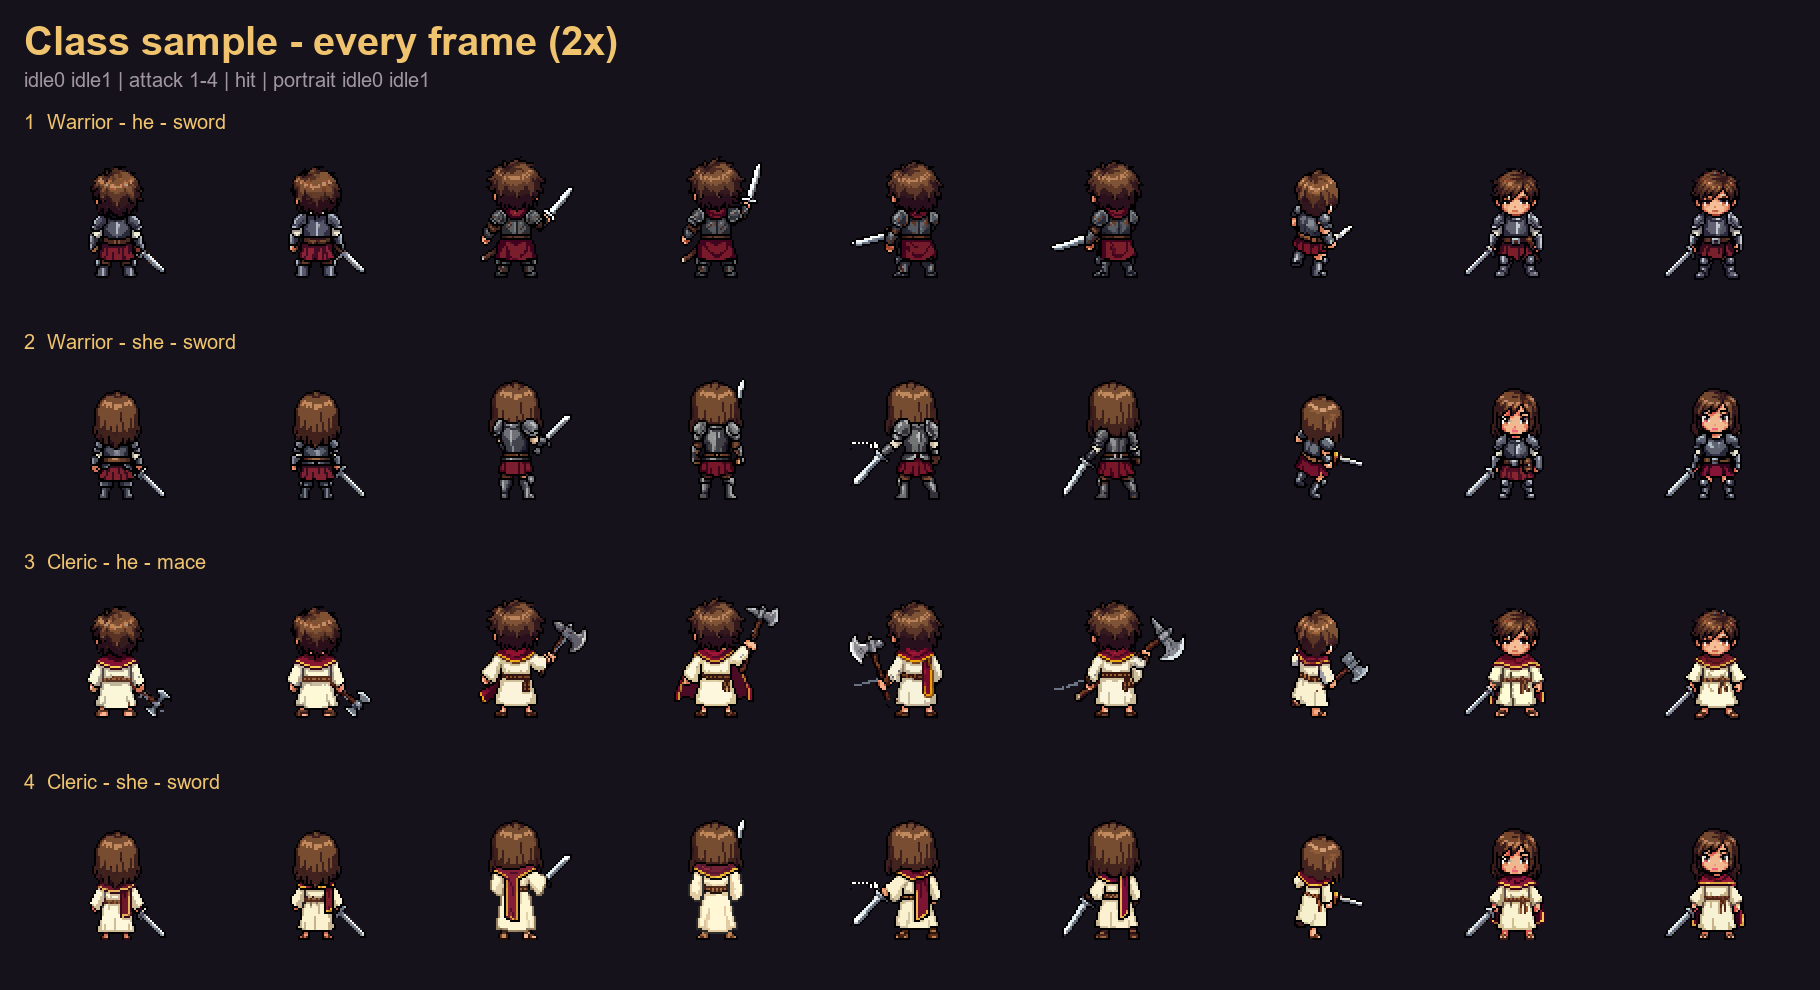
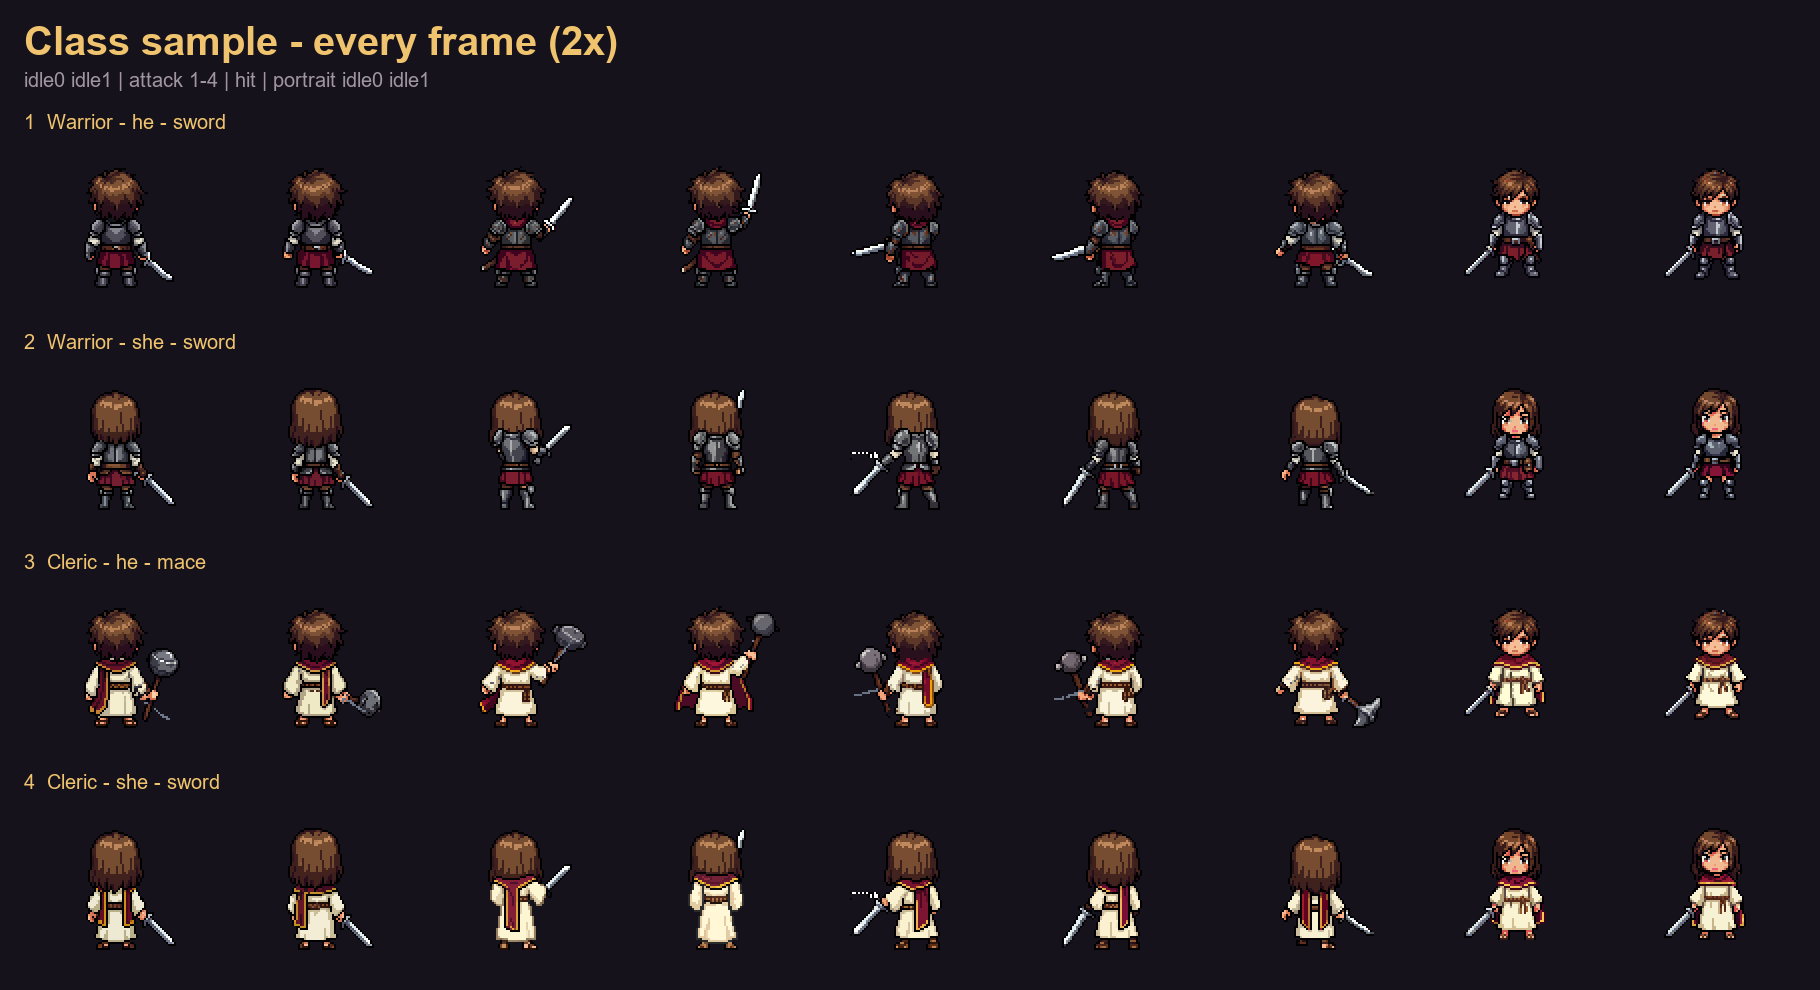
PixelLab hero class sample: same size in every frame (idle + hit remade from the attack's rest frame), real mace on all battle frames

diff --git a/claude/art_test/pixellab/classes/compose.py b/claude/art_test/pixellab/classes/compose.py
@@ -14,14 +14,15 @@ import hero
 def L(p): return Image.open(p).convert("RGBA")
 A = os.path.join(PL, "anims"); FA = os.path.join(PL, "female", "anims")
 BASE = {  # (body, frame) -> base PixelLab frame with the sword
-    ("m", "idle0"): os.path.join(A, "idle_north", "00.png"), ("m", "idle1"): os.path.join(A, "idle_north", "02.png"),
+    # idle + hit come from v3 clips started on the attack's rest frame, so the hero keeps the attack's size
+    ("m", "idle0"): os.path.join(A, "idle_as_north", "00.png"), ("m", "idle1"): os.path.join(A, "idle_as_north", "02.png"),
     ("m", "atk0"): os.path.join(A, "attack2_north", "02.png"), ("m", "atk1"): os.path.join(A, "attack2_north", "04.png"),
     ("m", "atk2"): os.path.join(A, "attack2_north", "06.png"), ("m", "atk3"): os.path.join(A, "attack2_north", "07.png"),
-    ("m", "hit"): os.path.join(HERE, "hit_m", "03.png"),
-    ("f", "idle0"): os.path.join(FA, "idle_north", "00.png"), ("f", "idle1"): os.path.join(FA, "idle_north", "02.png"),
+    ("m", "hit"): os.path.join(A, "hit_as_north", "01.png"),
+    ("f", "idle0"): os.path.join(FA, "idle_as_north", "00.png"), ("f", "idle1"): os.path.join(FA, "idle_as_north", "02.png"),
     ("f", "atk0"): os.path.join(FA, "attack_north", "02.png"), ("f", "atk1"): os.path.join(FA, "attack_north", "04.png"),
     ("f", "atk2"): os.path.join(FA, "attack_north", "06.png"), ("f", "atk3"): os.path.join(FA, "attack_north", "07.png"),
-    ("f", "hit"): os.path.join(HERE, "hit_f", "03.png"),
+    ("f", "hit"): os.path.join(FA, "hit_as_north", "01.png"),
 }
 NORTH = ["idle0", "idle1", "atk0", "atk1", "atk2", "atk3", "hit"]
 CW = 96
@@ -69,7 +70,7 @@ def centre(im):
 
 
 def at_feet(frames):
-    ref = max(f.getbbox()[3] for f in frames[:2])
+    ref = max(f.getbbox()[3] for f in frames[:2])  # feet of the idle frames
     out = []
     for f in frames:
         c = Image.new("RGBA", (CW, CW)); c.alpha_composite(f, (0, ref - f.getbbox()[3])); out.append(c)
@@ -79,9 +80,10 @@ def at_feet(frames):
 def clip(cls, body, weapon):
     frames = []
     for k in NORTH:
-        fr = L(os.path.join(HERE, "raw", f"{cls}_{body}_n_{k}.png"))
+        sfx = "_as" if k in ("idle0", "idle1", "hit") else ""
+        fr = L(os.path.join(HERE, "raw", f"{cls}_{body}_n_{k}{sfx}.png"))
         if weapon == "mace":
-            base = L(BASE[(body, k)]); mace = L(os.path.join(HERE, "raw", f"mace_{body}_n_{k}.png"))
+            base = L(BASE[(body, k)]); mace = L(os.path.join(HERE, "raw", f"mace2_{body}_n_{k}{sfx}.png"))
             S, W = weapon_masks(base, mace)
             fr = swap_weapon(fr, base, S, mace, W) if W else fr
         frames.append(centre(fr))
